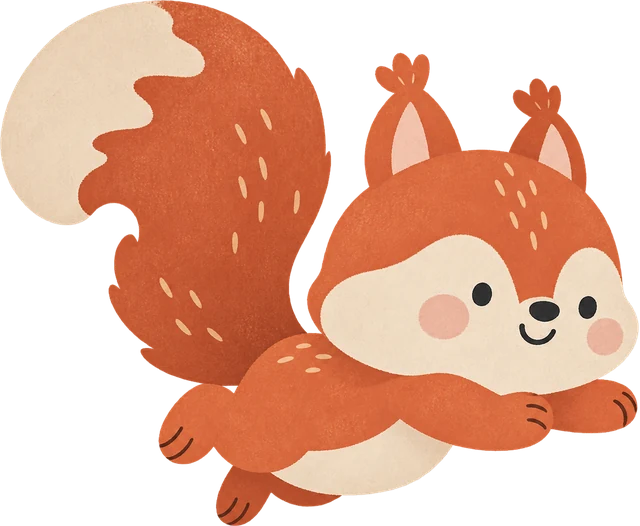
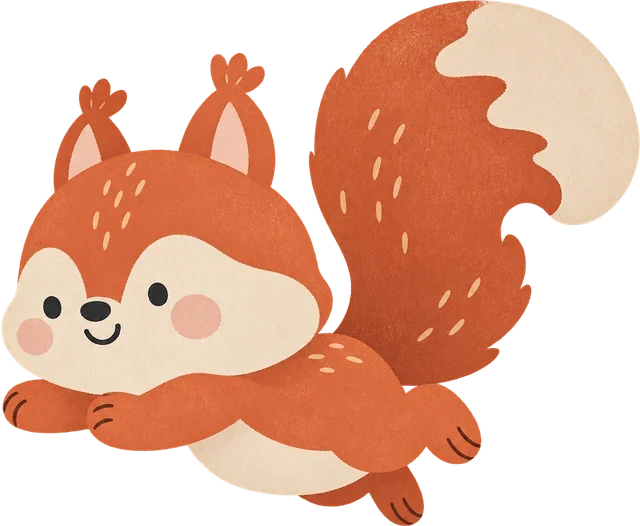
feat: 首頁松鼠依今天進度換表情；泡泡尖角補滿缺口；賓果松鼠左右翻轉
- 0 個揮手、未過半微笑、過半抱滿橡實、全部完成大笑（squirrel-mood.js + 5 個測試）
- 尖角改成一整塊加寬的三角形，接縫不再缺角

diff --git a/app.js b/app.js
@@ -384,6 +384,20 @@
     clearTimeout(img._sqTimer);
     img._sqTimer = setTimeout(() => img.classList.remove(cls), ms);
   }
+  // 首頁松鼠表情跟著今天進度換：還沒開始揮手、未過半微笑、過半抱滿橡實、全部完成大笑
+  const SQUIRREL_MOOD_SRC = {
+    wave: 'assets/squirrel-wave.webp',
+    normal: 'assets/squirrel-normal.webp',
+    proud: 'assets/squirrel-proud.webp',
+    happy: 'assets/squirrel-happy.webp'
+  };
+  Object.values(SQUIRREL_MOOD_SRC).forEach(src => { const pre = new Image(); pre.src = src; });
+  function updateHomeSquirrelMood(done, total) {
+    const img = homeSquirrelImg();
+    if (!img) return;
+    const src = SQUIRREL_MOOD_SRC[window.SquirrelMood.squirrelMood(done, total)];
+    if (img.getAttribute('src') !== src) img.setAttribute('src', src);
+  }
   function cheerHomeSquirrel(allDone) {
     playSquirrelMove(homeSquirrelImg(), allDone ? 'sq-cheer-big' : 'sq-cheer', allDone ? 2700 : 1000);
   }
@@ -1323,8 +1337,10 @@
       });
     }
 
+    const doneToday = visibleHabits.filter(h=>isLogDone(log[h.id])).length;
     document.getElementById('habit-count').textContent =
-      visibleHabits.length ? `${visibleHabits.filter(h=>isLogDone(log[h.id])).length}/${visibleHabits.length}` : '';
+      visibleHabits.length ? `${doneToday}/${visibleHabits.length}` : '';
+    updateHomeSquirrelMood(doneToday, visibleHabits.length);
 
     // dock
     const cur = todayPoints();
@@ -2012,7 +2028,8 @@
       // 2. 顏色改完 → 飛 N 顆橡實 + 叮 N 聲 + 數字跳
       const n = Math.max(1, earnedPoints);
       ding(n);
-      const allDone = state.habits.length > 0 && state.habits.every(h => isLogDone(log[h.id]));
+      const visibleNow = visibleHabitsToday();
+      const allDone = visibleNow.length > 0 && visibleNow.every(h => isLogDone(log[h.id]));
       cheerHomeSquirrel(allDone);
       const dockEl = document.querySelector('.dock-label svg');
       flyAcorn(sourceEl, dockEl, n);

diff --git a/squirrel-mood.test.js b/squirrel-mood.test.js
@@ -1,0 +1,27 @@
+const test = require('node:test');
+const assert = require('node:assert/strict');
+
+const { squirrelMood } = require('./squirrel-mood.js');
+
+test('no tasks done yet: squirrel waves hello', () => {
+  assert.equal(squirrelMood(0, 8), 'wave');
+});
+
+test('some tasks done but under half: normal smile', () => {
+  assert.equal(squirrelMood(1, 8), 'normal');
+  assert.equal(squirrelMood(3, 8), 'normal');
+});
+
+test('half or more done: proud with an armful of acorns', () => {
+  assert.equal(squirrelMood(4, 8), 'proud');
+  assert.equal(squirrelMood(7, 8), 'proud');
+});
+
+test('everything done: big laugh', () => {
+  assert.equal(squirrelMood(8, 8), 'happy');
+  assert.equal(squirrelMood(9, 8), 'happy');
+});
+
+test('no tasks set up: just the normal squirrel', () => {
+  assert.equal(squirrelMood(0, 0), 'normal');
+});

diff --git a/index.html b/index.html
@@ -13,7 +13,7 @@
 <link rel="preconnect" href="https://fonts.googleapis.com">
 <link rel="preconnect" href="https://fonts.gstatic.com" crossorigin>
 <link href="https://fonts.googleapis.com/css2?family=Chiron+GoRound+TC:wght@400;500;700;800&display=swap" rel="stylesheet">
-<link rel="stylesheet" href="styles.css?v=91">
+<link rel="stylesheet" href="styles.css?v=92">
 <title>松鼠點數收集 · 歐的樂星球</title>
 </head>
 <body class="child-mode">
@@ -340,7 +340,8 @@
 <script src="bingo-rules.js?v=3"></script>
 <script src="reflection-rules.js?v=4"></script>
 <script src="backup-rules.js?v=1"></script>
-<script src="app.js?v=84"></script>
+<script src="squirrel-mood.js?v=1"></script>
+<script src="app.js?v=85"></script>
 <script>
 if ('serviceWorker' in navigator) {
   window.addEventListener('load', () => {

diff --git a/sw.js b/sw.js
@@ -1,11 +1,12 @@
 // PWA service worker — network-first（線上永遠抓最新，離線回 cache）
-const CACHE = 'squirrel-points-v23';
+const CACHE = 'squirrel-points-v24';
 const SHELL = [
   './',
   './index.html',
   './styles.css',
   './daily-reset.js',
   './backup-rules.js',
+  './squirrel-mood.js',
   './manage-sort.js',
   './after-school-alarm.js',
   './bingo-rules.js',
@@ -17,6 +18,8 @@ const SHELL = [
   './assets/squirrel-cheer.webp',
   './assets/squirrel-run.webp',
   './assets/squirrel-mine.webp',
+  './assets/squirrel-wave.webp',
+  './assets/squirrel-proud.webp',
   './assets/stickers/daily/1F308.svg',
   './assets/stickers/daily/1F33A.svg',
   './assets/stickers/daily/1F344.svg',

diff --git a/squirrel-mood.js b/squirrel-mood.js
@@ -1,0 +1,15 @@
+/* 首頁松鼠表情：依今天任務完成進度換圖。shared by the app and tests. */
+(function (root, factory) {
+  const api = factory();
+  if (typeof module === 'object' && module.exports) module.exports = api;
+  root.SquirrelMood = api;
+})(typeof globalThis !== 'undefined' ? globalThis : this, function () {
+  function squirrelMood(done, total) {
+    if (!total) return 'normal';
+    if (done >= total) return 'happy';
+    if (done === 0) return 'wave';
+    if (done * 2 >= total) return 'proud';
+    return 'normal';
+  }
+  return { squirrelMood };
+});

diff --git a/styles.css b/styles.css
@@ -230,7 +230,7 @@ body.parent-mode .greet-row { padding-right: 0; }
   display: inline-flex;
   align-items: center;
   justify-content: center;
-  background: url("assets/speach_bubble_home.svg?v=2") center / contain no-repeat;
+  background: url("assets/speach_bubble_home.svg?v=3") center / contain no-repeat;
 }
 @keyframes breathe {
   0%, 100% { transform: translateY(0) rotate(-1deg); }
